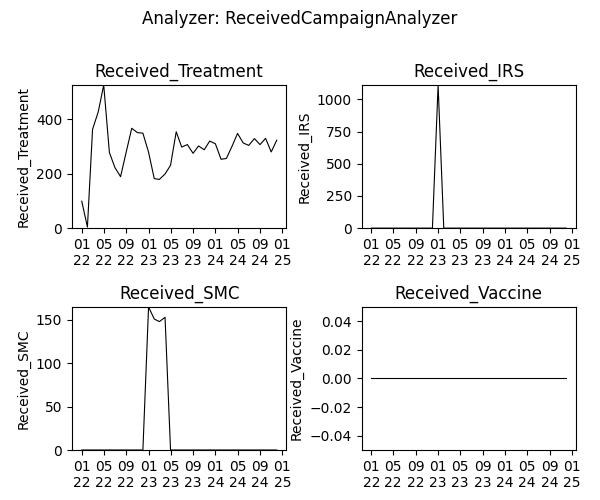
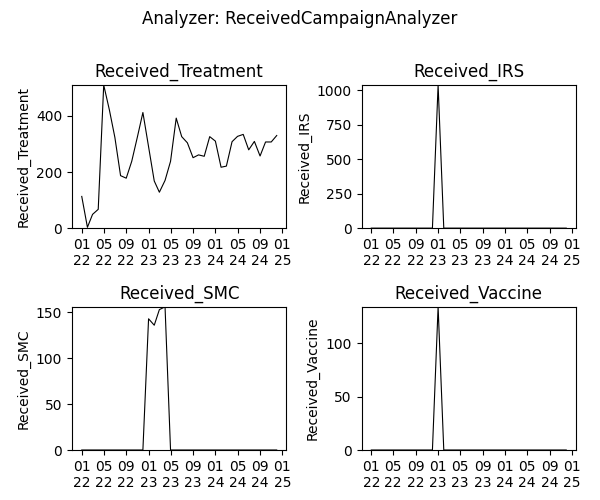
updates to week 1-3, updated IRS chunk and added larviciding

diff --git a/Solution_scripts/run_exampleSim_w3a.py b/Solution_scripts/run_exampleSim_w3a.py
@@ -9,9 +9,9 @@ from simtools.SetupParser import SetupParser
 from malaria.reports.MalariaReport import add_summary_report
 from malaria.reports.MalariaReport import add_event_counter_report
 ## Import campaign functions
-# from dtk.interventions.itn import add_ITN
-from dtk.interventions.itn_age_season import add_ITN_age_season
+from dtk.interventions.itn import add_ITN
 from dtk.interventions.irs import add_IRS
+from dtk.interventions.novel_vector_control import add_larvicides
 from malaria.interventions.health_seeking import add_health_seeking
 from malaria.interventions.malaria_drug_campaigns import add_drug_campaign
 from malaria.interventions.malaria_vaccine import add_vaccine
@@ -49,18 +49,11 @@ add_health_seeking(cb, start_day=0,
                    drug=['Artemether', 'Lumefantrine'])
 event_list = event_list + ['Received_Treatment', 'Received_Severe_Treatment']
 
-# malaria vaccine (RTS,S), no booster start after 1 year
+# malaria vaccine (RTS,S), as mass campaign at 80% at a single day (hypothetical example only!)
 add_vaccine(cb,
             vaccine_type='RTSS',
-            vaccine_params={"Waning_Config":
-                                {"Initial_Effect": 0.8,
-                                 "Decay_Time_Constant": 592.4066512,
-                                 "class": 'WaningEffectExponential'}},
             start_days=[366],
-            coverage=1,
-            repetitions=1,
-            tsteps_btwn_repetitions=-1,
-            target_group={'agemin': 274, 'agemax': 275})  # children 9 months of age
+            coverage=0.1)
 event_list = event_list + ['Received_Vaccine']
 
 # seasonal malaria chemoprevention, start after 1 year
@@ -96,15 +89,28 @@ add_ITN_age_season(cb, start=366,
 event_list = event_list + ['Bednet_Got_New_One', 'Bednet_Using', 'Bednet_Discarded']
 
 # IRS, start after 1 year - single campaign
-add_IRS(cb, start=366,
-        coverage_by_ages=[{"coverage": 0.8, "min": 0, "max": 100}],
+add_IRS(cb,
+        start=366,  # IRS occurs on first day of second year
+        coverage_by_ages=[
+            {"coverage": 1, "min": 0, "max": 10},  # 100% for 0-10 years old
+            {"coverage": 0.75, "min": 11, "max": 50},  # 75% for 11-50 years old
+            {"coverage": 0.6, "min": 51, "max": 125}  # 60% for everyone else
+        ],
         killing_config={
             "class": "WaningEffectBoxExponential",
-            "Box_Duration": 180,  # based on PMI data from Burkina
-            "Decay_Time_Constant": 90,  # Sumishield from Benin
-            "Initial_Effect": 0.7},
+            "Box_Duration": 60,
+            "Decay_Time_Constant": 120,
+            "Initial_Effect": 0.6
+        }
         )
 event_list = event_list + ['Received_IRS']
+
+# Larviciding, start after 1 year - single campaign
+add_larvicides(cb, start_day=366,
+               habitat_target='CONSTANT',
+               killing_initial=0.4,
+               killing_decay=150)
+
 
 """CUSTOM REPORTS"""
 # add_filtered_report(cb, start=0, end=years * 365)

diff --git a/analyze_exampleSim_w3a.py b/analyze_exampleSim_w3a.py
@@ -17,7 +17,7 @@ SetupParser.default_block = 'LOCAL'
 
 user = os.getlogin()  # user initials
 expt_name = f'{user}_FE_2022_example_w3a'
-expt_id = '2022_04_26_01_31_14_904003'  ## change expt_id
+expt_id = '2022_04_29_04_26_46_512944'  ## change expt_id
 working_dir = os.path.join('simulation_outputs')
 
 

diff --git a/analyze_exampleSim_w1.py b/analyze_exampleSim_w1.py
@@ -11,7 +11,7 @@ SetupParser.default_block = 'LOCAL'
 
 user = os.getlogin()  # user initials
 expt_name = f'{user}_FE_2022_example_w1'
-expt_id = '2022_04_25_02_32_39_010842'  ## change expt_id
+expt_id = '2022_04_29_02_14_46_106520'  ## change expt_id
 working_dir = os.path.join('simulation_outputs')
 
 

diff --git a/README.md b/README.md
@@ -5,59 +5,89 @@
 Example scripts for the [weekly lessons](https://faculty-enrich-2022.netlify.app/lessons/) of the faculty enrichment
 program 2022.
 
-#### Weekly examples
+**Prerequisites**: successful [installation]((https://faculty-enrich-2022.netlify.app/modules/install-emod/)) of EMOD and dtk
+and [cloned repository](https://docs.github.com/en/repositories/creating-and-managing-repositories/cloning-a-repository) to local computer, ideally under _/<.username>/Documents/faculty-enrich-2022-examples_.
 
-_(include temporary notes for admin)_
+#### Weekly example exercises
 
-- [Go to Week 1](#week1)    _(MR: setup closed, open for testing)_
-- [Go to Week 2](#week2)    _(MR: setup closed, open for testing)_
-- [Go to Week 3](#week3)    _(MR: setup closed, open for testing)_
+- [Go to Week 1](#week1)    _(MR: ready for testing)_
+- [Go to Week 2](#week2)    _(MR: ready for testing)_
+- [Go to Week 3](#week3)    _(MR: ready for testing)_
 - [Go to Week 4](#week4)    _(MR: setup in progress)_
 - Week 5: no technical track
-- [Go to Week 6](#week6)    _(TH: setup not started)_
-- [Go to Week 7](#week7)    _(BT: setup not started)_
-- [Go to Week 8](#week8)    _(MR: setup not started)_
-- [Go to Week 9](#week9)    _(JG?: setup not started)_
+- [Go to Week 6](#week6)    _(TH: setup in progress)_
+- [Go to Week 7](#week7)    _(BT)_
+- [Go to Week 8](#week8)    _(MR)_
+- [Go to Week 9](#week9)    _(JG&? )_
 - Week 10: no technical track
-- [Go to Week 11](#week11)    _(BT: setup not started)_
-- [Go to Week 12](#week12)    _(TH: setup not started)_
+- [Go to Week 11](#week11)    _(BT)_
+- [Go to Week 12](#week12)    _(TH)_
 - [Go to Week 13](#week13)    _(tbd)_
-- [Go to Week 14](#week14)    _(BT: setup not started)_
+- [Go to Week 14](#week14)    _(BT)_
 
 __Table 1: Overview of scripts used throughout the course__
 
 |Script |Description | 
 |-------|------------|
-|run_exampleSim.py |the main simulation script which will be expanded and modified throughout the lessons | 
-|analyze_exampleSim_w1.py |the main analyzer script which changes each week (w1, w2,...w5) | 
-|generate_input_files.py |the default script for creating demographics and climate which needs to run only once or when substantial changes are made | 
-|plot_exampleSim.py, plot_exampleSim.R | plotting scripts outside of analyzerin python or R | 
 |analyzer_collection.py | collection of different analyzers used| 
-|run_burnin_exampleSim.py |  <TODO: or similar when introducing serialization>  | 
+|analyze_exampleSim_wX.py |the main analyzer script which changes each week (w1, w2,...w5) | 
+|generate_input_files.py |the default script for creating demographics and climate which needs to run only once or when substantial changes are made | 
+|plot_exampleSim.py, plot_exampleSim.R | plotting scripts outside of analyzerin python or R |
+|run_exampleSim.py       |the main simulation script which will be expanded and modified throughout the lessons | 
+|run_exampleBurnin_w6.py | first simulation script for week 6 where simulation is splitted into 2 runs (Burnin)  | 
+|run_examplePickup_w6.py | second simulation script for week 6 where simulation is splitted into 2 runs (Pickup)   | 
+|simtools.ini |  Configuration file for main directories required to run simulations (1 single file need in same directory where simulation or analyser script is run) | 
+
+
 
 ## Week 1: Overview of EMOD <a name="week1"></a>
 
 [Lesson Week 1](https://faculty-enrich-2022.netlify.app/lessons/week-1/)
+
+EMOD How To's:
+- Update _simtools.ini_
+- Define _exp_name_ and identify _expt_id_
 
 ### Instructions
 
 <details><summary><span>Click to expand</span></summary>
 <p>
 
-- Adjust paths in `simtools.ini` by replacing `<USERNAME>` with your username
+- Adjust paths in `simtools.ini` by replacing `<USERNAME>` with your username in path
 - Run simulation via `python run_exampleSim.py`
 - Wait simulation to finish (~5 minutes)
-- Update expt_id in `analyze_exampleSim_w1.py`
+  - Note, when running locally, the console might return an <span style="color:#ff6666">psutil.AccessDenied text</span>
+    error, however the simulation can still successfully run and finish.
+  - If there are problems with running locally, you can peek into [Week 6](#week6) on how to change `SetupParser` to run on _COMPS_ (requires login)!  
+- Go to the experiment folder to notice the generated simulation experiment named 'username_FE_2022_example_w1___2022_04_29_02_14_46_106520' The last part after the '___' is the experiment id and changes with each simulation.
+- Update expt_id in `analyze_exampleSim_w1.py` Line 14 (copy number sequence after ___, also printed to console)
 - Run analyzer via `python analyze_exampleSim_w1.py`
-- Inspect `simulation_outputs` to see generated simulation results (csv file)
+- Inspect `simulation_outputs` to see generated simulation results (csv files)
 - Done!
 
 <details><summary><span>Check results</span></summary>
 <p>
 
-Terminal output after successful submission of analyzer
+Terminal output after running run_exampleSim.py
+![img](static/w1_local_console run_exampleSim.png)
 
-![img](static/w1.1._console_analyzer.png)
+Once finished
+![img](static/w1_local_console run_exampleSim_finished.png)
+
+Generated experiment files 
+![img](static/w1_experimentfiles.png)
+
+Terminal output after running analyze_exampleSim_w1.py
+![img](static/w1_console_analyzer.png)
+
+Generated simulation output files 
+
+![img](static/w1_simulationoutputsfiles.png)
+
+**All_Age_Monthly_Cases.csv** shows selected monitored malaria outcomes for the total population in the simulation aggregated per month for the simulation duration, in this example 1 year.
+![img](static/w1_All_Age_Monthly_Cases_excel.png)
+
+
 
 </p>
 </details>
@@ -74,7 +104,7 @@ EMOD How To's:
 - [Update config parameters](https://faculty-enrich-2022.netlify.app/modules/emod-how-to/emod-how-to/#update-config-parameters)
 - [Create a demographics file](https://faculty-enrich-2022.netlify.app/modules/emod-how-to/emod-how-to/#create-a-demographics-file)
 - [Create climate files](https://faculty-enrich-2022.netlify.app/modules/emod-how-to/emod-how-to/#create-climate-files)
-- [Add summary reports](https://faculty-enrich-2022.netlify.app/modules/emod-how-to/emod-how-to/#add-summary-reports)
+- [Add summary reports](https://faculty-enrich-2022.netlify.app/modules/emod-how-to/emod-how-to/#add-summary-reports) (annual)
 
 ### Instructions
 
@@ -110,6 +140,7 @@ EMOD How To's:
 
 - Change _exp_name_  for week 2 `f'{user}_FE_2022_example_w2'`
 - Run simulation as learned in Week 1 and wait for simulation to finish (~5 minutes)
+    - Note, if there are problems with running locally, you can peek into [Week 6](#week6) on how to change `SetupParser` to run on _COMPS_ (requires login)!
 - Run analyzer script for Week 2 `analyze_exampleSim_w2.py` (don't forget to update expt_id!)
 - Inspect `simulation_outputs` to see additional generated plot
     - Optional: rerun analyzer with plot for week 1 and compare.
@@ -160,11 +191,12 @@ suggested [solution script for week 2](https://github.com/numalariamodeling/facu
 EMOD How To's:
 
 - [Add case management](https://faculty-enrich-2022.netlify.app/modules/emod-how-to/emod-how-to/#add-case-management)
-- Add ITN
-- Add IRS
+- [Add ITN](https://faculty-enrich-2022.netlify.app/modules/emod-how-to/emod-how-to/#add-itn)
+- [Add IRS](https://faculty-enrich-2022.netlify.app/modules/emod-how-to/emod-how-to/#add-irs)
 - [Add larvicides](https://faculty-enrich-2022.netlify.app/modules/emod-how-to/emod-how-to/#add-larvicides)
 - [Add drug campaigns](https://faculty-enrich-2022.netlify.app/modules/emod-how-to/emod-how-to/#add-drug-campaigns)
-- Add event reporters
+- [Add summary reports](https://faculty-enrich-2022.netlify.app/modules/emod-how-to/emod-how-to/#add-summary-reports) (monthly)
+- [Add event reporters](https://faculty-enrich-2022.netlify.app/modules/emod-how-to/emod-how-to/#event-reporting)
 - [Using the model builder to set up multi-simulation experiments](https://faculty-enrich-2022.netlify.app/modules/emod-how-to/emod-how-to/#using-the-model-builder-to-set-up-multi-simulation-experiments)
 
 ### Instructions
@@ -252,6 +284,19 @@ EMOD How To's:
            ```
             </p>
             </details>
+        - <details><summary><span style="color: blue";">add_larvicides </span></summary>
+            <p>
+
+           ```py
+            from dtk.interventions.novel_vector_control import add_larvicides
+            add_larvicides(cb, start_day=0, 
+                           habitat_target='CONSTANT',  
+                           killing_initial=0.6,        
+                           killing_decay=150          
+                           )
+           ```
+            </p>
+            </details>          
         - <details><summary><span style="color: blue";">add_vaccine </span></summary>
             <p>
 
@@ -307,38 +352,40 @@ EMOD How To's:
 <p>
 
 Raw output files in the experiment folder under outputs.
-![img](static/w3a_outputfiles.png)
+![img](static/w3a_outputfiles.png)  
 __Fig: Generated raw output files__
 
 ReportEventCounter with campaign events, aggregated for total population. Most Interventions were set to start after day
 366, hence there are 365 zeros in the `"Data": [0, 0, ...]`
-![img](static/w3a_ReportEventCounter.png)
+![img](static/w3a_ReportEventCounter.png)  
 __Fig: ReportEventCounter__ </br>
 _Tip: Notepad ++ offers helpful json plugins._
 
 ReportEventRecorder with campaign events, for each individual in the population. Some individuals get multiple
 interventions, some none and so on - age is given in days.
-![img](static/w3a_ReportEventRecorder.png)
+![img](static/w3a_ReportEventRecorder.png)  
 __Fig: ReportEventRecorder__ </br>
 _Tip: When running simulations with large populations, this csv file can get very large and should be disabled, while
 for testing it is very useful._
 
 Generated results after running analyzer:
+![img](static/w3a_simulationoutputfiles.png)  
 
-![img](static/w3a_TransmissionReport_daily.png)
+![img](static/w3a_TransmissionReport_daily.png)  
 __Fig: Aggregated transmission report (daily)__
 
-![img](static/w3a_TransmissionReport_monthly.png)
+![img](static/w3a_TransmissionReport_monthly.png)  
 __Fig: Aggregated transmission report (monthly)__
 
-![img](static/w3a_TransmissionReport_annual.png)
+![img](static/w3a_TransmissionReport_annual.png)  
 __Fig: Aggregated transmission report (annual)__
 
-![img](static/w3a_BednetUsage.png)
+![img](static/w3a_BednetUsage.png)  
 __Fig: Aggregated event report (ITN, Bed nets)__
 
-![img](static/w3a_ReceivedCampaignAnalyzer.png)
+![img](static/w3a_ReceivedCampaignAnalyzer.png)  
 __Fig: Aggregated event report (other campaigns)__
+
 
 View
 suggested [solution script for week 3 (a)](https://github.com/numalariamodeling/faculty-enrich-2022-examples/blob/main/Solution_scripts/run_exampleSim_w3a.py)
@@ -641,11 +688,10 @@ EMOD How To's:
 <details><summary><span>Click here to expand</span></summary>
 <p>
 
-- Add a variable 'serialize_year' to the run_exampleSim.py script (without any interventions), and set it equal to 50.
-- Update the configuration parameters as shown below to enable serialization
-- Update simtools.ini to reflect your paths
 - Change the value of `SetupParser.default_block` from 'LOCAL' to **'HPC'**
     - This is to run the longer simulation on COMPS, as opposed to your local machine
+- Add a variable 'serialize_year' to the run_exampleSim.py script (without any interventions), and set it equal to 50.
+- Update the configuration parameters as shown below to enable serialization
 - Run simulation
 - Copy the experimentID ('expID') from the simulation metadata to pick-up from later.
     
